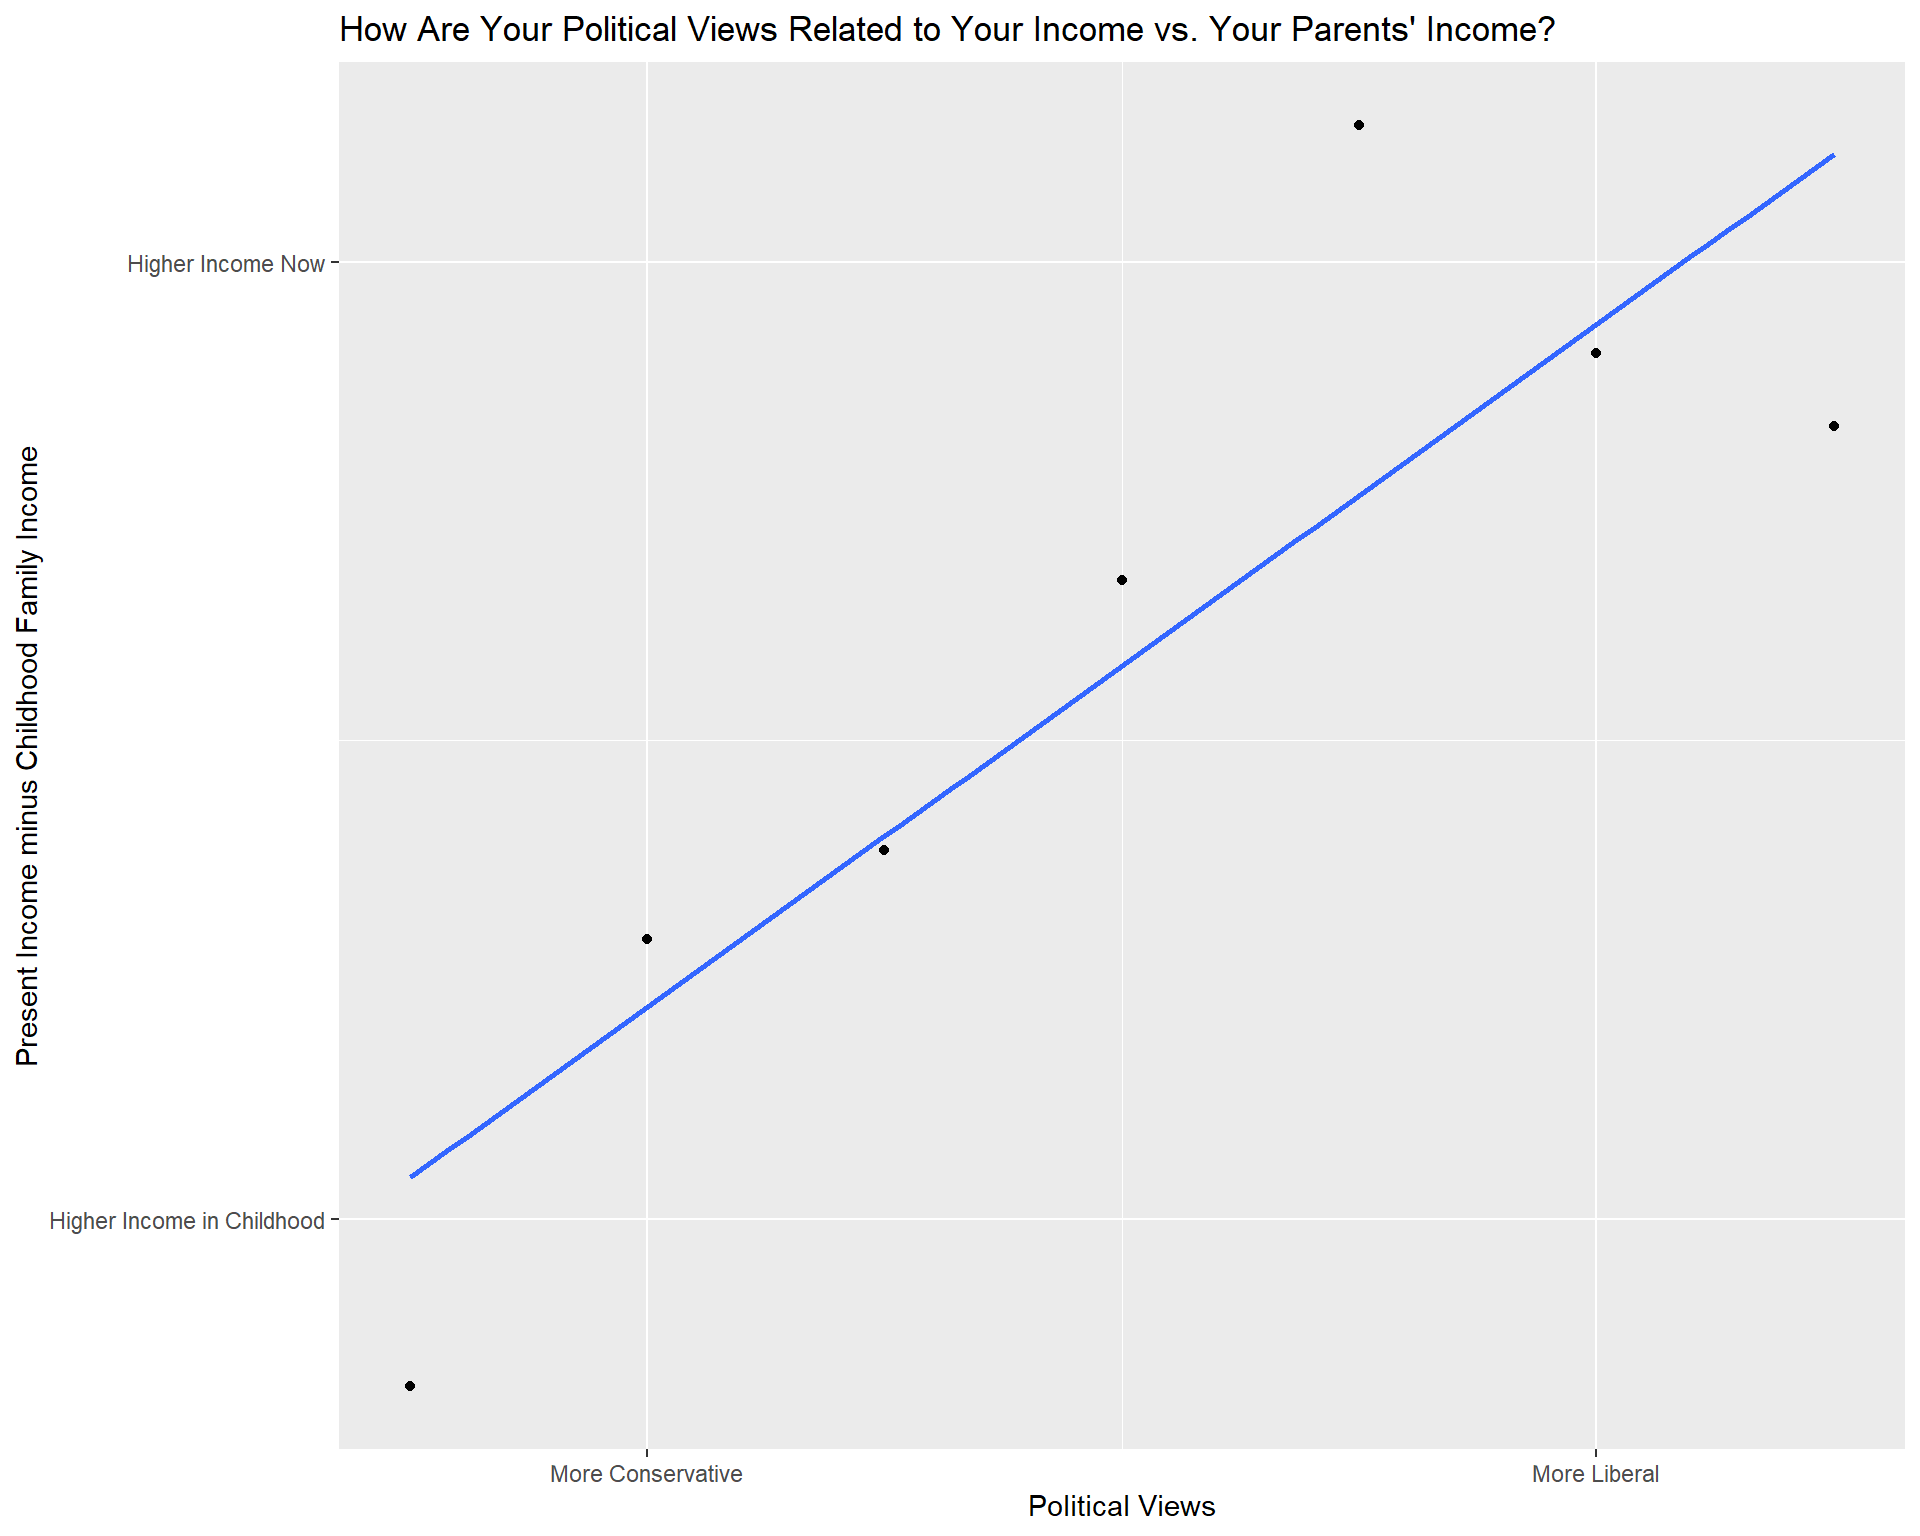
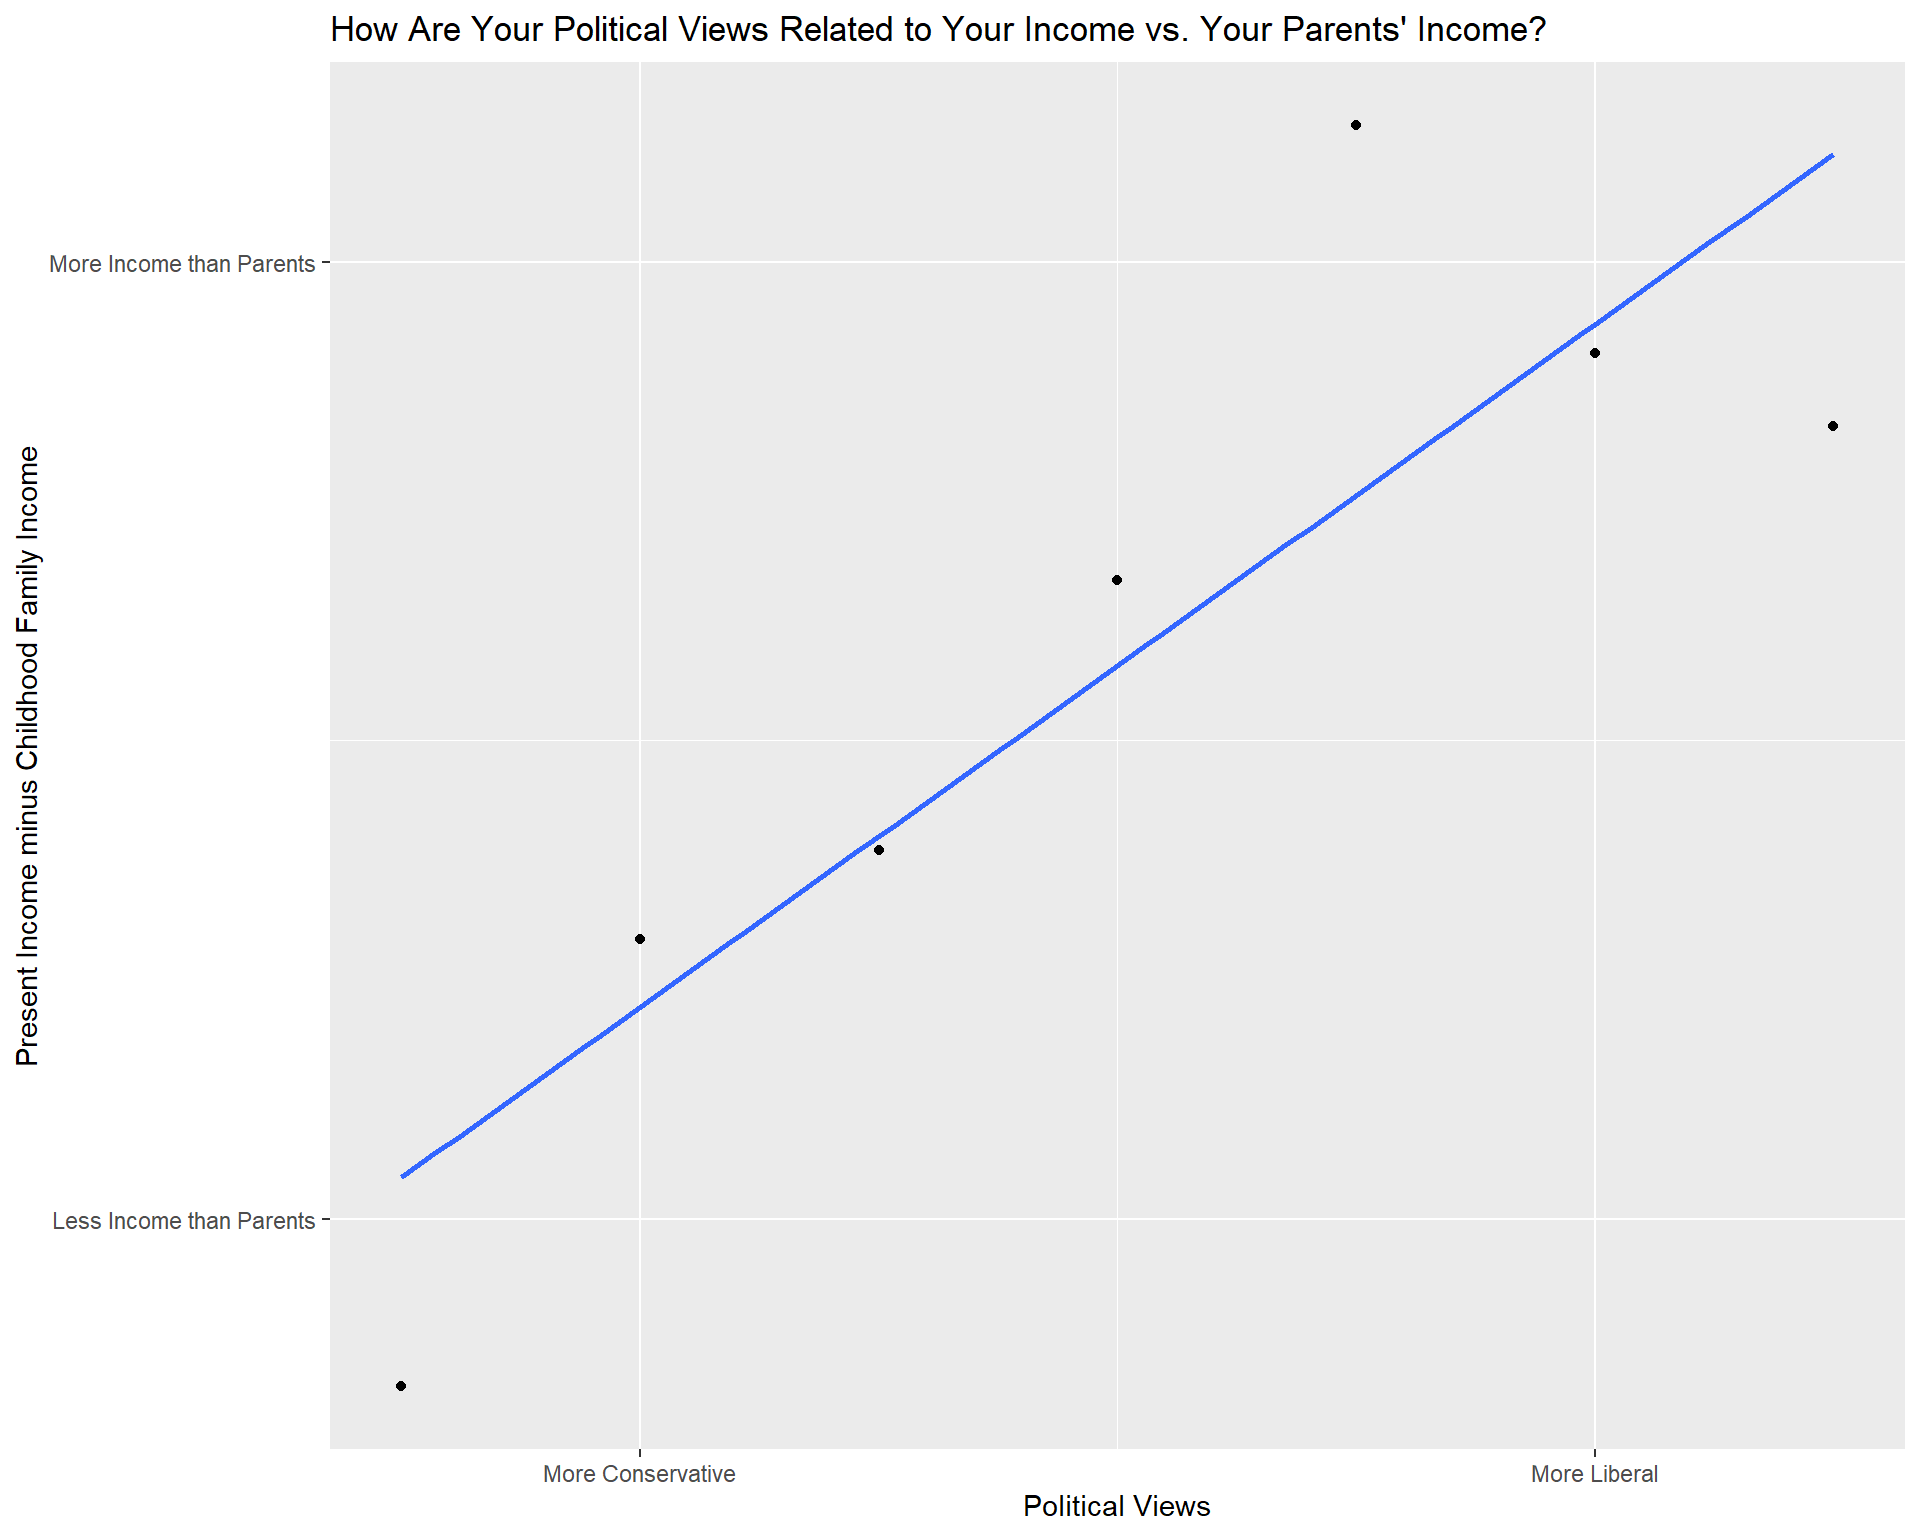
Added extra analysis

diff --git a/index.html b/index.html
@@ -1569,10 +1569,11 @@ code span.wa { color: #5e5e5e; font-style: italic; } /* Warning */
 <span>  <span class='fu'><a href='https://ggplot2.tidyverse.org/reference/geom_smooth.html'>geom_smooth</a></span><span class='op'>(</span>method<span class='op'>=</span><span class='st'>"lm"</span>, se<span class='op'>=</span><span class='cn'>FALSE</span><span class='op'>)</span> <span class='op'>+</span></span>
 <span>  <span class='fu'><a href='https://ggplot2.tidyverse.org/reference/labs.html'>labs</a></span><span class='op'>(</span>x<span class='op'>=</span><span class='st'>"Political Views"</span>, y<span class='op'>=</span><span class='st'>"Present Income minus Childhood Family Income"</span>, title<span class='op'>=</span><span class='st'>"How Are Your Political Views Related to Your Income vs. Your Parents' Income?"</span><span class='op'>)</span> <span class='op'>+</span></span>
 <span>  <span class='fu'><a href='https://ggplot2.tidyverse.org/reference/scale_continuous.html'>scale_x_continuous</a></span><span class='op'>(</span>breaks<span class='op'>=</span><span class='fu'><a href='https://rdrr.io/r/base/c.html'>c</a></span><span class='op'>(</span><span class='fl'>2</span>, <span class='fl'>6</span><span class='op'>)</span>, labels<span class='op'>=</span><span class='fu'><a href='https://rdrr.io/r/base/c.html'>c</a></span><span class='op'>(</span><span class='st'>"More Conservative"</span>, <span class='st'>"More Liberal"</span><span class='op'>)</span><span class='op'>)</span> <span class='op'>+</span></span>
-<span>  <span class='fu'><a href='https://ggplot2.tidyverse.org/reference/scale_continuous.html'>scale_y_continuous</a></span><span class='op'>(</span>breaks<span class='op'>=</span><span class='fu'><a href='https://rdrr.io/r/base/c.html'>c</a></span><span class='op'>(</span><span class='fl'>8.1</span>, <span class='fl'>8.5</span><span class='op'>)</span>, labels<span class='op'>=</span><span class='fu'><a href='https://rdrr.io/r/base/c.html'>c</a></span><span class='op'>(</span><span class='st'>"Higher Income in Childhood"</span>, <span class='st'>"Higher Income Now"</span><span class='op'>)</span><span class='op'>)</span></span></code></pre>
+<span>  <span class='fu'><a href='https://ggplot2.tidyverse.org/reference/scale_continuous.html'>scale_y_continuous</a></span><span class='op'>(</span>breaks<span class='op'>=</span><span class='fu'><a href='https://rdrr.io/r/base/c.html'>c</a></span><span class='op'>(</span><span class='fl'>8.1</span>, <span class='fl'>8.5</span><span class='op'>)</span>, labels<span class='op'>=</span><span class='fu'><a href='https://rdrr.io/r/base/c.html'>c</a></span><span class='op'>(</span><span class='st'>"Less Income than Parents"</span>, <span class='st'>"More Income than Parents"</span><span class='op'>)</span><span class='op'>)</span></span></code></pre>
 </div>
 <p><img src="index_files/figure-html5/unnamed-chunk-3-1.png" width="960" /></p>
 </div>
+<p>This plot suggests that there is a positive correlation between liberal beliefs and income relative to your parents’.</p>
 <div class="sourceCode" id="cb1"><pre class="sourceCode r distill-force-highlighting-css"><code class="sourceCode r"></code></pre></div>
 <!--radix_placeholder_article_footer-->
 <!--/radix_placeholder_article_footer-->
